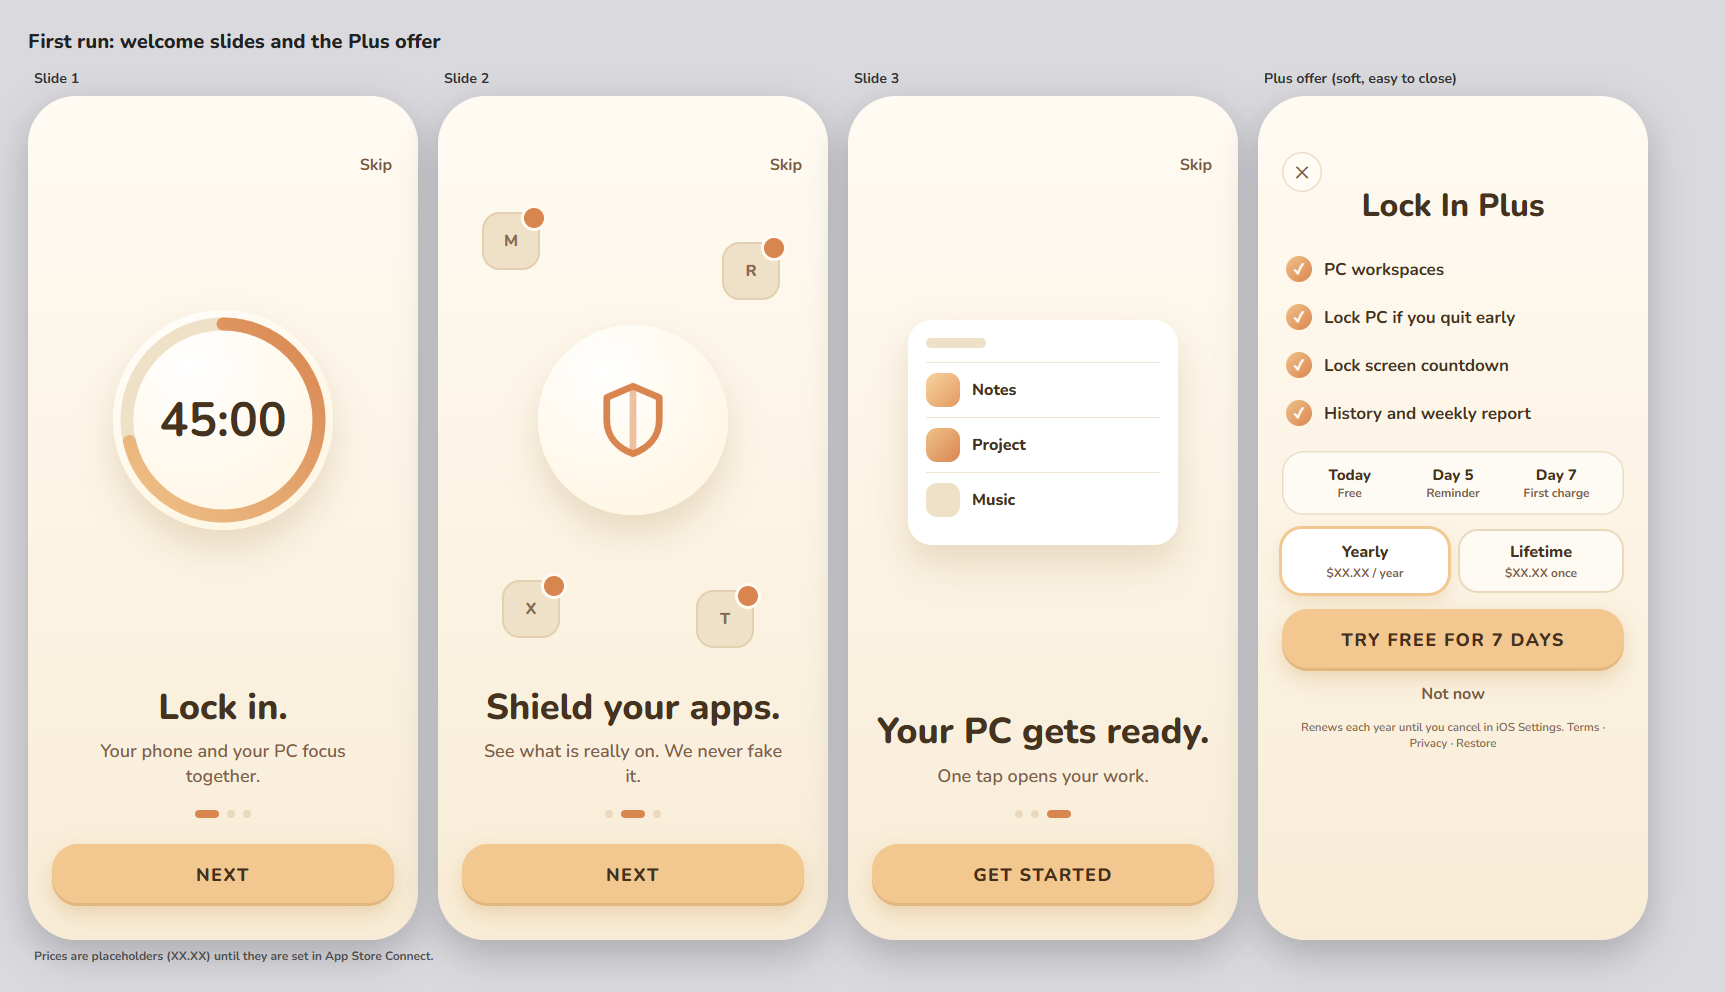
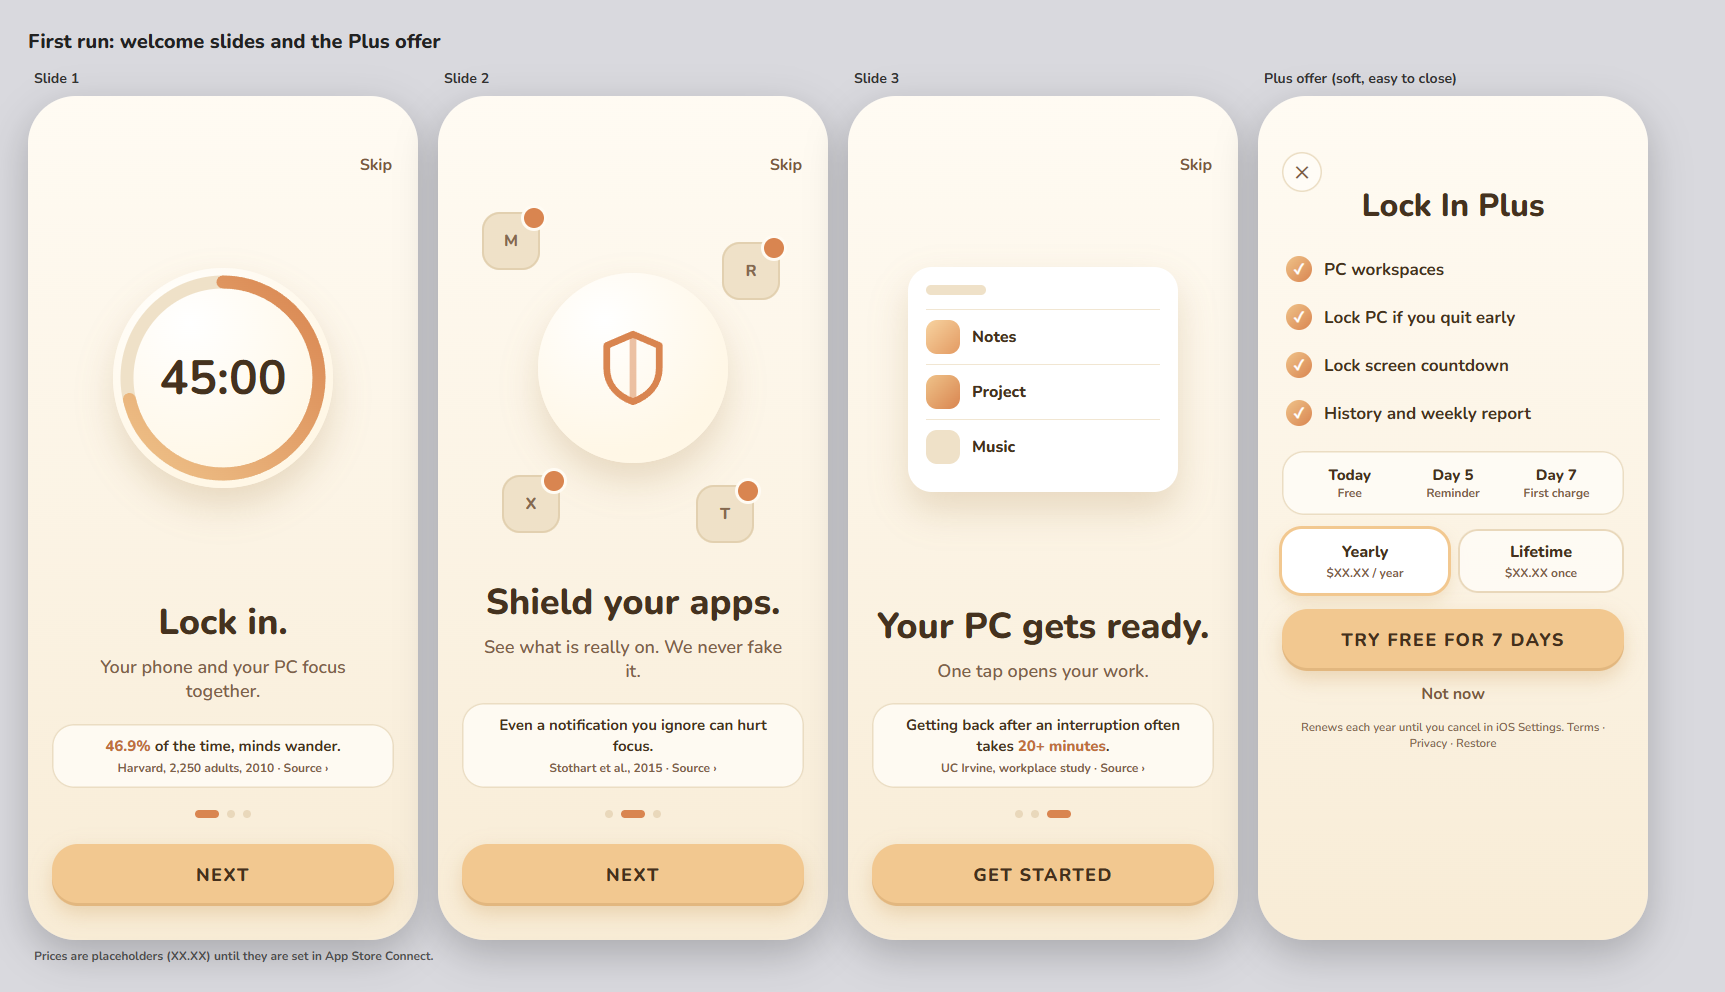
Add checked research facts; show them on welcome slides mock

diff --git a/docs/design/welcome-ideas.html b/docs/design/welcome-ideas.html
@@ -52,6 +52,9 @@
   .plan.on { background: #fff; box-shadow: 0 0 0 3px #F2C890, 0 8px 18px rgba(200,150,80,.25); }
   .plan small { display: block; font-size: 12px; font-weight: 700; color: #7D6249; margin-top: 2px; }
   .fine { margin-top: 14px; font-size: 11.5px; font-weight: 600; color: #86694F; text-align: center; line-height: 1.4; }
+  .fact { margin-top: 20px; width: 100%; border-radius: 22px; padding: 12px 16px; text-align: center; font-weight: 700; font-size: 15px; line-height: 1.35; background: #FFFDF8CC; box-shadow: inset 0 0 0 1.5px #EBDDC3; color: #45321F; }
+  .fact b { color: #C0703E; font-weight: 800; }
+  .fact small { display: block; margin-top: 4px; font-size: 12px; font-weight: 700; color: #7D6249; }
   .note { margin: 8px 6px 0; font-size: 12px; font-weight: 700; color: #555; }
 </style>
 </head>
@@ -64,6 +67,7 @@
     <div class="skip">Skip</div>
     <div class="art"><div class="disc"><svg viewBox="0 0 220 220"><defs><linearGradient id="g" x1="0" y1="0" x2="1" y2="1"><stop offset="0" stop-color="#EFC38A"/><stop offset="1" stop-color="#D98550"/></linearGradient></defs><circle cx="110" cy="110" r="96" fill="none" stroke="#EFE1C8" stroke-width="13"/><circle cx="110" cy="110" r="96" fill="none" stroke="url(#g)" stroke-width="13" stroke-linecap="round" stroke-dasharray="430 604"/></svg><b>45:00</b></div></div>
     <h1>Lock in.</h1><div class="sub">Your phone and your PC focus together.</div>
+    <div class="fact"><b>46.9%</b> of the time, minds wander. <small>Harvard, 2,250 adults, 2010 · Source ›</small></div>
     <div class="dots"><i class="on"></i><i></i><i></i></div>
     <div class="btn">NEXT</div>
   </div></div>
@@ -74,6 +78,7 @@
     <div class="art"><div class="shieldbig"><svg viewBox="0 0 24 24" fill="none" stroke="currentColor" stroke-width="1.8" stroke-linejoin="round"><path d="M12 3l7 3v6c0 4.5-3 7.5-7 9-4-1.5-7-4.5-7-9V6l7-3z"/><path d="M12 3v18" opacity=".5"/></svg></div>
       <div class="app" style="left:20px;top:60px">M</div><div class="app" style="right:24px;top:90px">R</div><div class="app" style="left:40px;bottom:50px">X</div><div class="app" style="right:50px;bottom:40px">T</div></div>
     <h1>Shield your apps.</h1><div class="sub">See what is really on. We never fake it.</div>
+    <div class="fact">Even a notification you ignore can hurt focus. <small>Stothart et al., 2015 · Source ›</small></div>
     <div class="dots"><i></i><i class="on"></i><i></i></div>
     <div class="btn">NEXT</div>
   </div></div>
@@ -84,6 +89,7 @@
     <div class="art"><div class="pcwin"><div class="bar"></div>
       <div class="pcrow"><div class="ico"></div>Notes</div><div class="pcrow"><div class="ico" style="background:linear-gradient(135deg,#EFC38A,#D98550)"></div>Project</div><div class="pcrow"><div class="ico" style="background:#EFE1C8"></div>Music</div></div></div>
     <h1>Your PC gets ready.</h1><div class="sub">One tap opens your work.</div>
+    <div class="fact">Getting back after an interruption often takes <b>20+ minutes</b>. <small>UC Irvine, workplace study · Source ›</small></div>
     <div class="dots"><i></i><i></i><i class="on"></i></div>
     <div class="btn">GET STARTED</div>
   </div></div>

diff --git a/docs/RESEARCH_FACTS.md b/docs/RESEARCH_FACTS.md
@@ -1,0 +1,47 @@
+# Real research we can quote (and what we must not say)
+
+Written 2026-11-04. Every line below was checked against a source found in search. Re-check the paper before shipping any wording. Rule: say what the study found, who ran it, and how big it was. Never say Lock In causes a result. We have no study of our own app.
+
+## Safe to use
+
+1. **Minds wander a lot.**
+   - Claim: "In a Harvard study of 2,250 adults, minds wandered 46.9% of the time."
+   - Source: Killingsworth and Gilbert (2010), "A wandering mind is an unhappy mind", Science. Harvard Gazette covered it.
+   - Limits: people were pinged through an iPhone app and answered about themselves. The "wandering causes unhappiness" idea is an inference from correlation, so do not quote the unhappiness part as proven.
+   - Link: https://news.harvard.edu/gazette/story/wandering-mind-not-a-happy-mind/
+
+2. **Even a notification you ignore can hurt.**
+   - Claim: "In a 2015 experiment, getting a phone notification hurt performance on an attention task, even when people did not touch the phone."
+   - Source: Stothart, Mitchum and Yehnert (2015), Journal of Experimental Psychology: Human Perception and Performance, 41(4), 893-897. The effect was about as large as actually using the phone.
+   - Limits: a lab task, not a whole workday.
+
+3. **Getting back after an interruption takes time.**
+   - Claim: "In workplace research from UC Irvine, it often took over 20 minutes to return to interrupted work."
+   - Source: Gloria Mark's fieldwork. The widely quoted number is 23 minutes 15 seconds (interview). The peer-reviewed 2005 CHI paper reports 25 minutes 26 seconds with a very wide spread, and the time includes other work done in between.
+   - So say "over 20 minutes", not an exact figure. Old, small study at one workplace.
+
+4. **Part of your attention stays on the last task.**
+   - Claim: "Researchers call it attention residue: after you switch tasks, part of your mind stays on the old one."
+   - Source: Sophie Leroy (2009), Organizational Behavior and Human Decision Processes, 109, 168-181.
+
+## Do not use
+- **"Having your phone in the room lowers your brainpower"** (Ward et al., 2017 "Brain Drain"). Several later replications did not find the effect.
+- **"People focus for only 47 seconds"**. I could not find a primary source in this search.
+- **Any "boosts focus by X%" for Lock In.** We have no data. Making one up would be a lie.
+- **"Harvard says..." for anything not from Harvard.** Only item 1 is Harvard.
+- **Unverified blog numbers.** One blog cited a 2026 study I could not confirm. Skip it.
+
+## How to show it in the app
+- One short fact per welcome slide, small text, with the author and year underneath.
+- A "Source" tap opens the full citation. No paragraph on the slide itself.
+- Later, replace quotes with the user's own real numbers: their minutes, streak and weekly receipt. That is honest and more personal than any study.
+
+## Sources
+- https://news.harvard.edu/gazette/story/wandering-mind-not-a-happy-mind/
+- https://www.imm.uzh.ch/news/schatzkammer/Science_2010.330.932.pdf
+- https://www.fastcompany.com/944128/worker-interrupted-cost-task-switching
+- https://siliconcanals.com/t-work-interruptions-23-minutes-275-pings-organisational-focus/
+- https://www.uwb.edu/business/faculty/sophie-leroy/attention-residue
+- https://magazine.washington.edu/theres-no-such-thing-as-multitasking-according-to-business-expert-sophie-leroy/
+- https://pubmed.ncbi.nlm.nih.gov/36007374/ (Brain Drain replication)
+- https://www.bps.org.uk/research-digest/revisiting-brain-drain-effect
